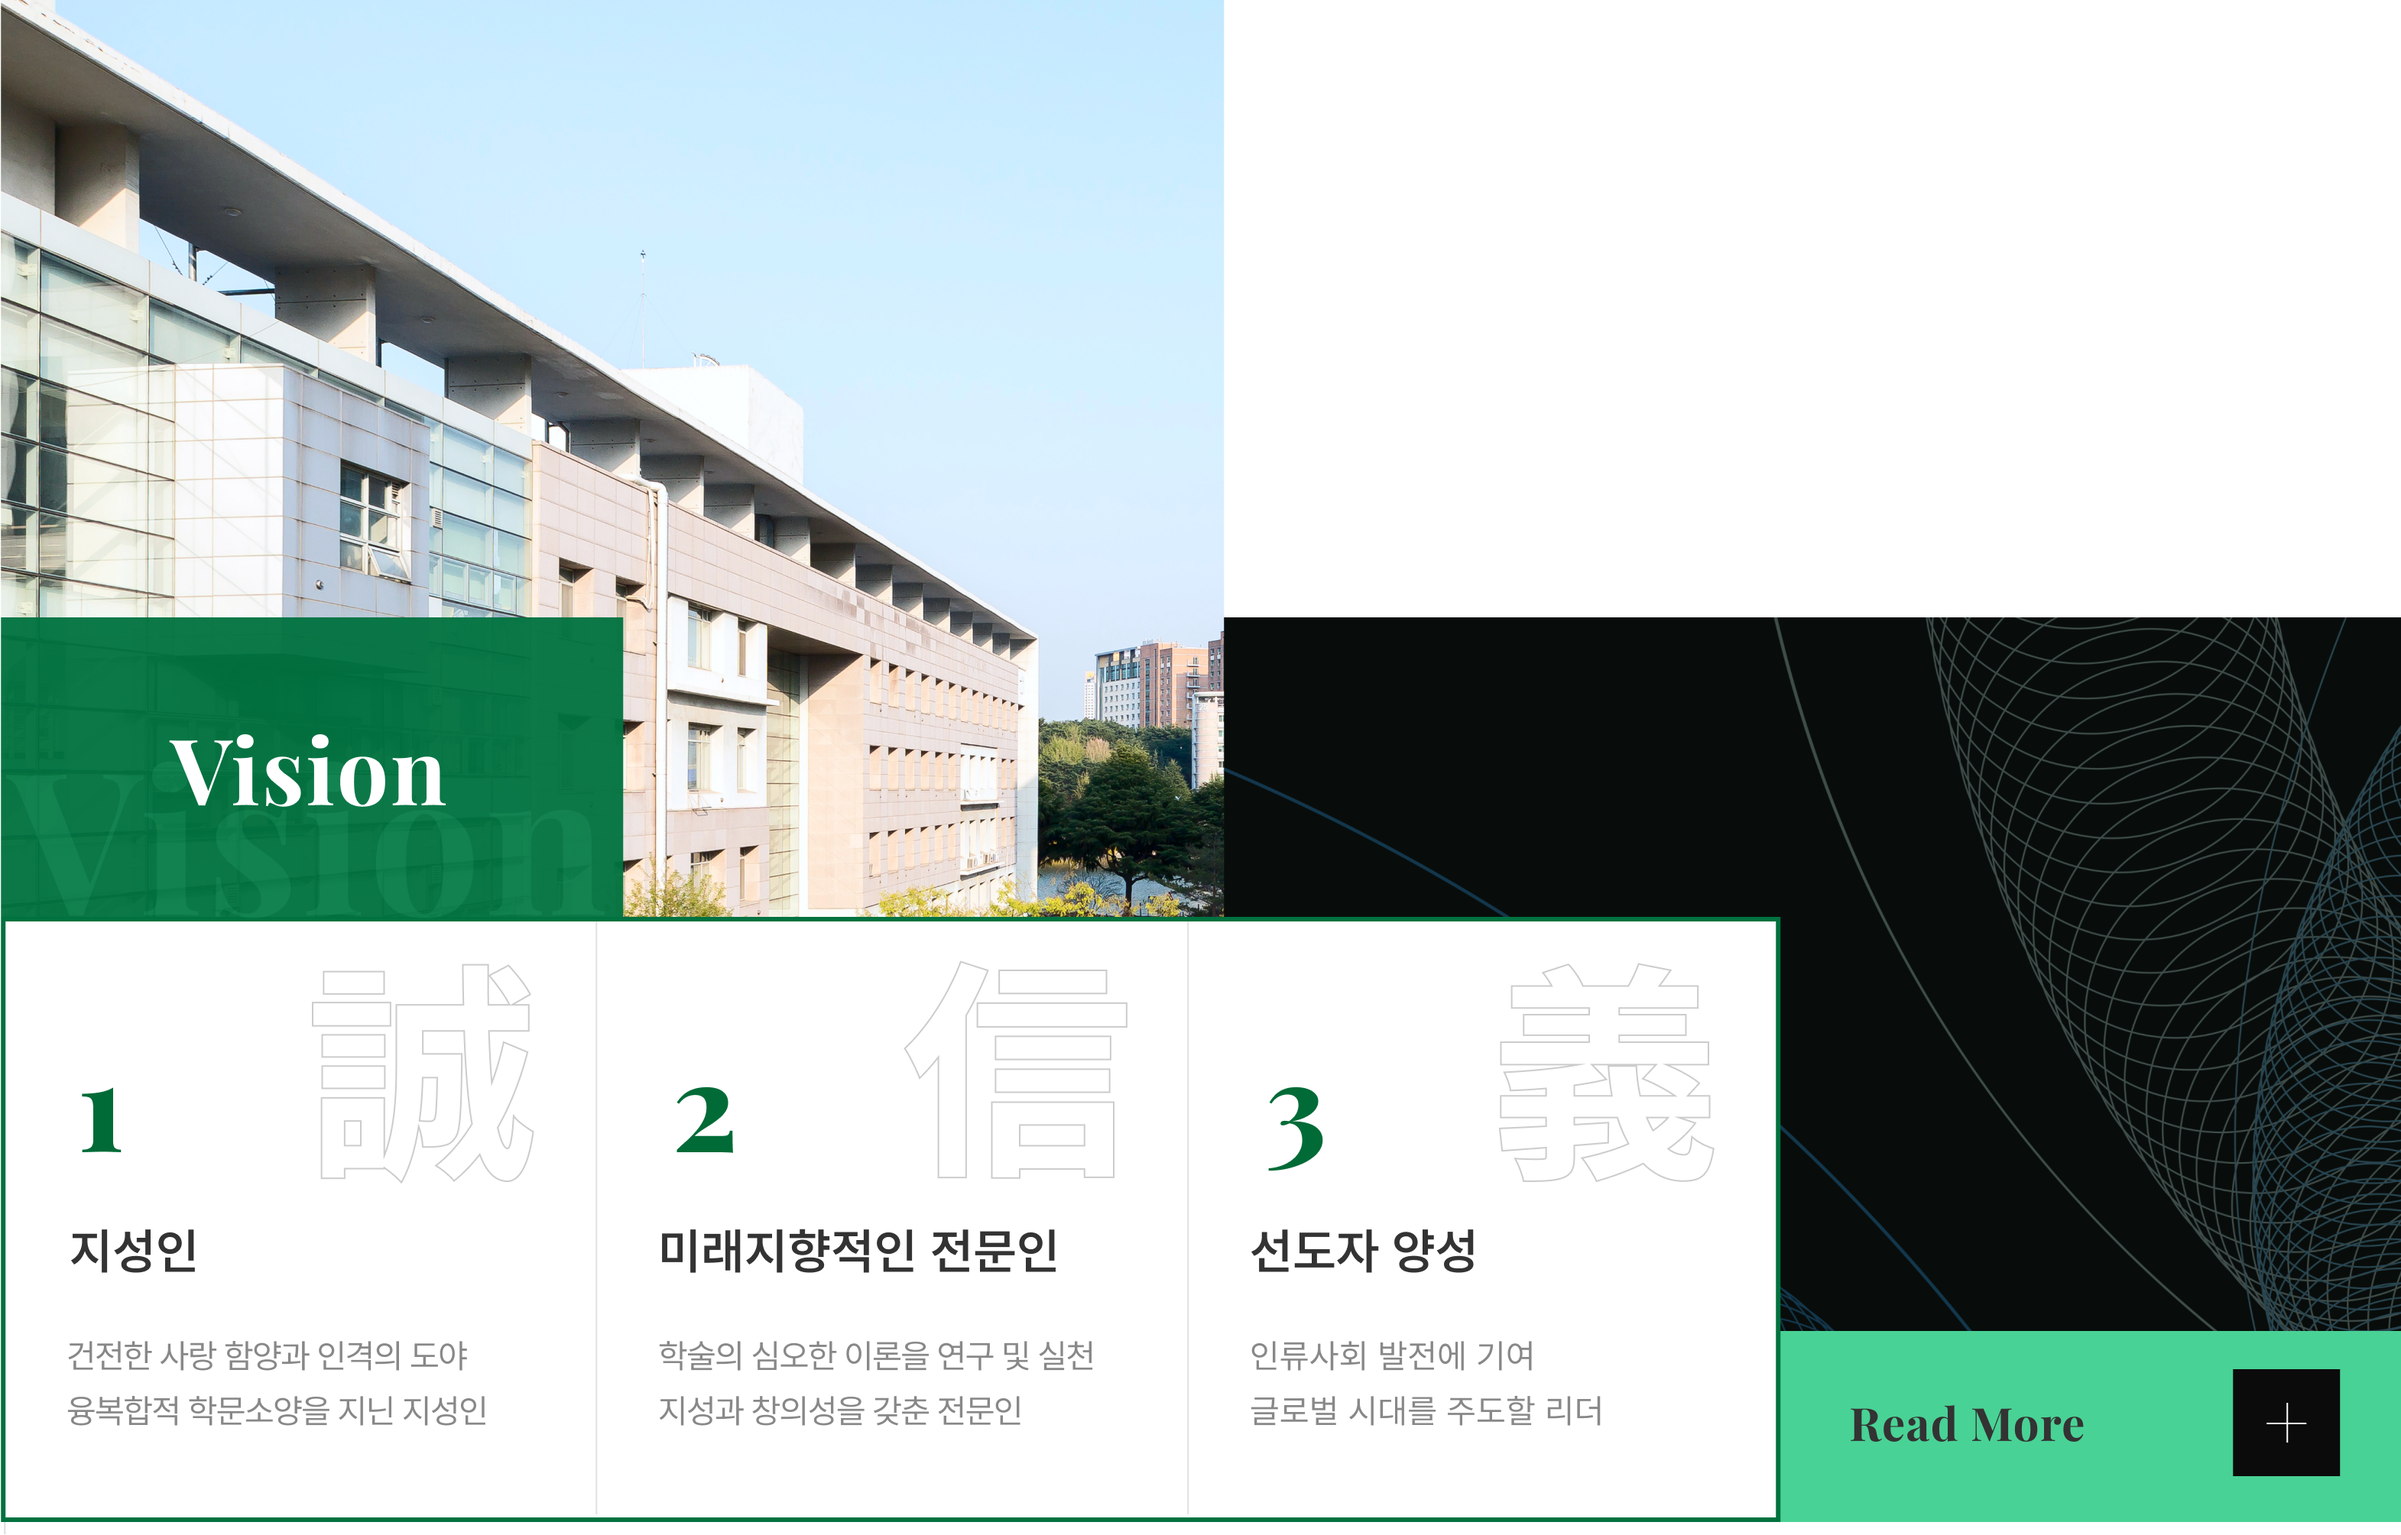
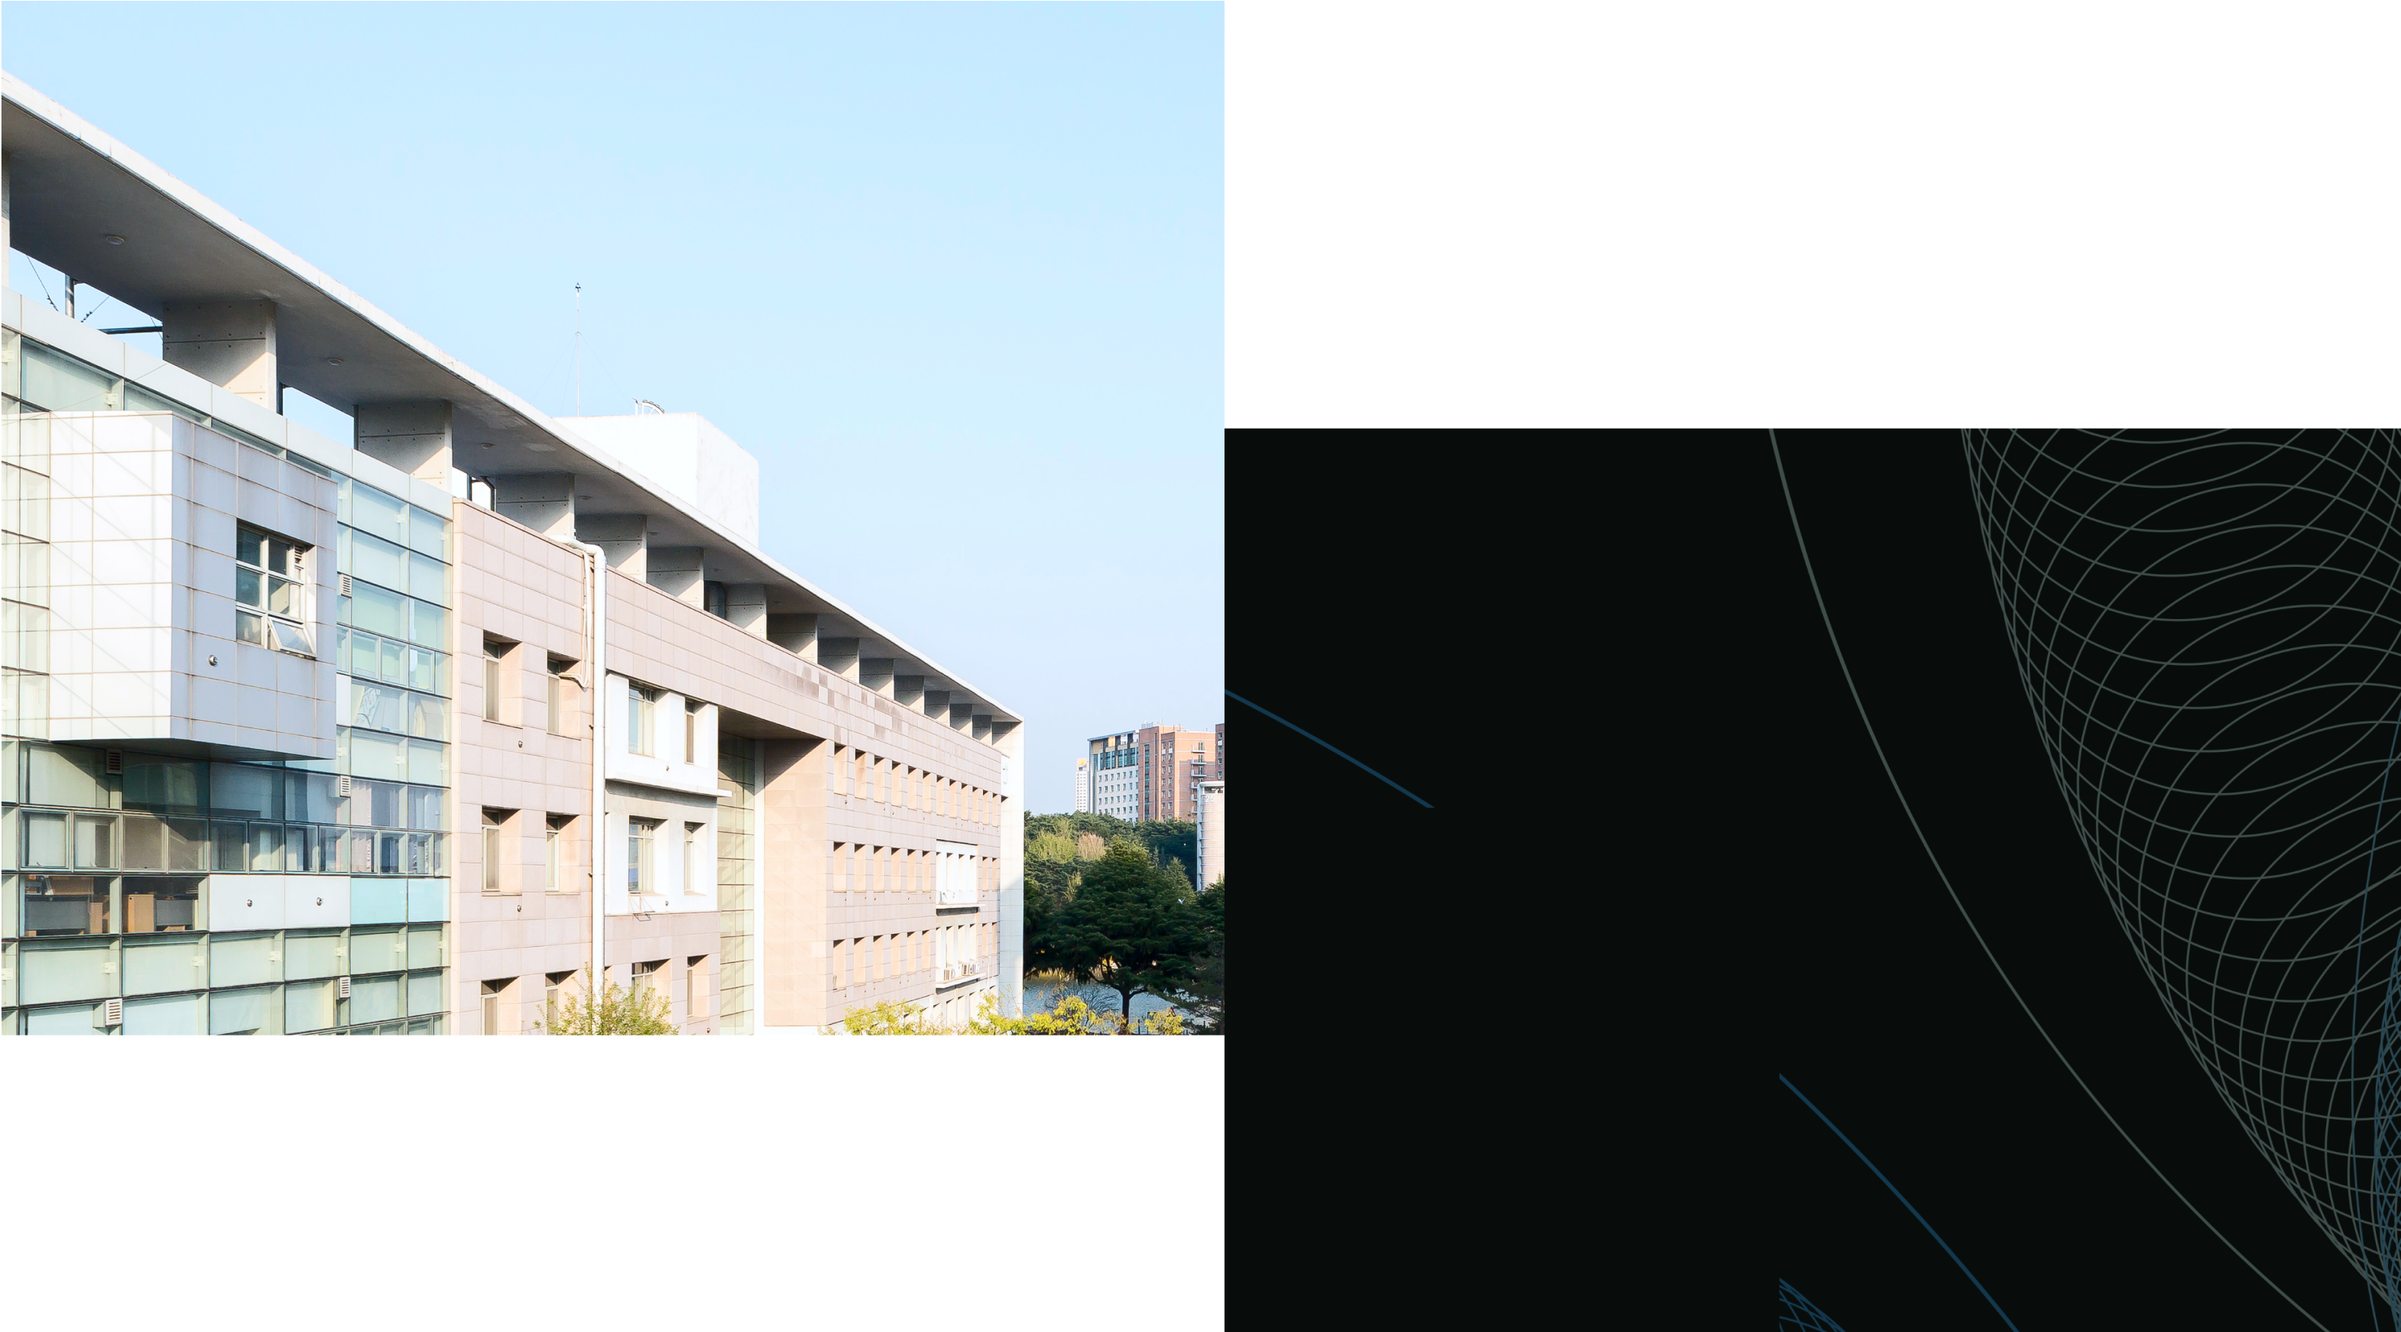
mainB

diff --git a/css/styleB.css b/css/styleB.css
@@ -1,12 +1,16 @@
-.wrap {
+.wrap.main-b {
     width: 100%;
     font-size: 2rem;
     overflow-x: hidden;
 }
+.main-b .mo{
+    display: none;
+}
 .main-b .visual{
     position: relative;
-    height: 83.2rem;
-    background: url('../images/bg-mainB-visual.png') no-repeat 50% 50% / cover;
+}
+.main-b .visual > img{
+    width: 100%;
 }
 .main-b .quick-menu{
     position: absolute;
@@ -131,12 +135,27 @@
     max-width: 63.5rem;
     width: 100%;
 }
-.main-b .wrap02{
-    height: 141rem;
-    margin-top: -0.8rem;
+.main-b .wrap01 .content{
+    display: flex;
+    position: absolute;
+    align-items: flex-end;
+    left:0;
+    bottom:0;
+    height: calc(100% - 40.4rem);
+}
+.main-b .wrap01 .content .box-txt{
+    height: 100%;
+    object-fit: contain;
+    object-position: bottom;
+}
+.main-b .wrap01 .content .box-btn{
+    height: 12.5rem;
 }
 .main-b .wrap02 .video{
     width: 100%;
+}
+.main-b .wrap02 .video > img{
+    width: 100%;;
 }
 .main-b .wrap-calendar{
     position: relative;
@@ -160,12 +179,22 @@
     gap:2.3rem;
 }
 .main-b .wrap-calendar li{
-    flex:1;
+    position: relative;
+    min-width: 31rem;
+    width: calc((100% - 6rem)/4);
     padding:4rem;
     border: 1px solid #D1D1D1;
     background: #FFF;
+    cursor: pointer;
+    transition: all 0.2s ease 0s;
+}
+.main-b .wrap-calendar li:hover{
+    box-shadow: 4px 4px 14px 0px rgba(0, 0, 0, 0.14);
 }
 .main-b .wrap-calendar li > div{
+    display: flex;
+    flex-wrap: wrap;
+    gap:1.2rem;
     color: #00713B;
     font-family: Pretendard;
     font-size: 3.2rem;
@@ -184,16 +213,22 @@
     letter-spacing: -0.064rem;
 }
 .main-b .wrap-calendar li p{
+    position: relative;
+    width:100%;
+    padding-left: 0.9rem;
     color: #555;
     font-family: Pretendard;
     font-style: normal;
     font-weight: 400;
     line-height: 3.6rem;
     letter-spacing: -0.04rem;
+    transition: all 0.2s ease 0s;
+    white-space: nowrap;
+    overflow: hidden;
+    text-overflow: ellipsis;
 }
-.main-b .wrap-calendar li p{
-    position: relative;
-    padding-left: 0.9rem;
+.main-b .wrap-calendar li:hover p{
+    text-decoration: underline;
 }
 .main-b .wrap-calendar li p::before{
     content: "";
@@ -208,8 +243,20 @@
     background: #006B37;
 
 }
+.main-b .wrap-calendar li span + p,.main-b .wrap-calendar li div + p{
+    margin-top:3rem;
+}
 .main-b .wrap03{
     padding-top: 10.3rem;
     padding-bottom: 14rem;
     
+}
+@media screen and (max-width:900px){
+    .main-b .mo{
+        display:block;
+        width: 100%;
+    }
+    .main-b > *{
+        display: none;
+    }
 }

diff --git a/html/typeA_main.html b/html/typeA_main.html
@@ -116,14 +116,16 @@
       <div class="inner-1670">
         <div>
           <img src="../images/img-main-program.png" alt="" class="txt-program">
-          <div class="swiper program-slide">
-            <div class="swiper-wrapper">
-              <a class="swiper-slide" href="#n">
-                <img src="../images/img-main-program02.png" alt="">
-              </a>
-              <a class="swiper-slide" href="#n">
-                <img src="../images/img-main-program02.png" alt="">
-              </a>
+          <div style="position: relative;">
+            <div class="swiper program-slide">
+              <div class="swiper-wrapper">
+                <a class="swiper-slide" href="#n">
+                  <img src="../images/img-main-program02.png" alt="">
+                </a>
+                <a class="swiper-slide" href="#n">
+                  <img src="../images/img-main-program02.png" alt="">
+                </a>
+              </div>
             </div>
           </div>
           <div class="btn-main-slide">

diff --git a/html/typeB_main.html b/html/typeB_main.html
@@ -10,10 +10,12 @@
 </head>
 <body>
     <div class="wrap main-b">
+        <img src="../images/img-mainB-mo.png" class="mo">
         <header>
             <img src="../images/img-mainB-header.png">
         </header>
         <div class="visual">
+            <img src="../images/bg-mainB-visual.png">
             <div class="quick-menu">
                 <img src="../images/img-mainB-quickmenu.png">
                 <div class="sub-gnb">
@@ -43,6 +45,10 @@
                         <div class="notice-cont">
                             <img src="../images/img-mainB-noticetxt.png">
                         </div>
+                    </div>
+                    <div class="content">
+                        <img src="../images/img-mainB-box.png" class="box-txt">
+                        <img src="../images/img-mainB-box02.png" class="box-btn">
                     </div>
                 </div>
             </div>
